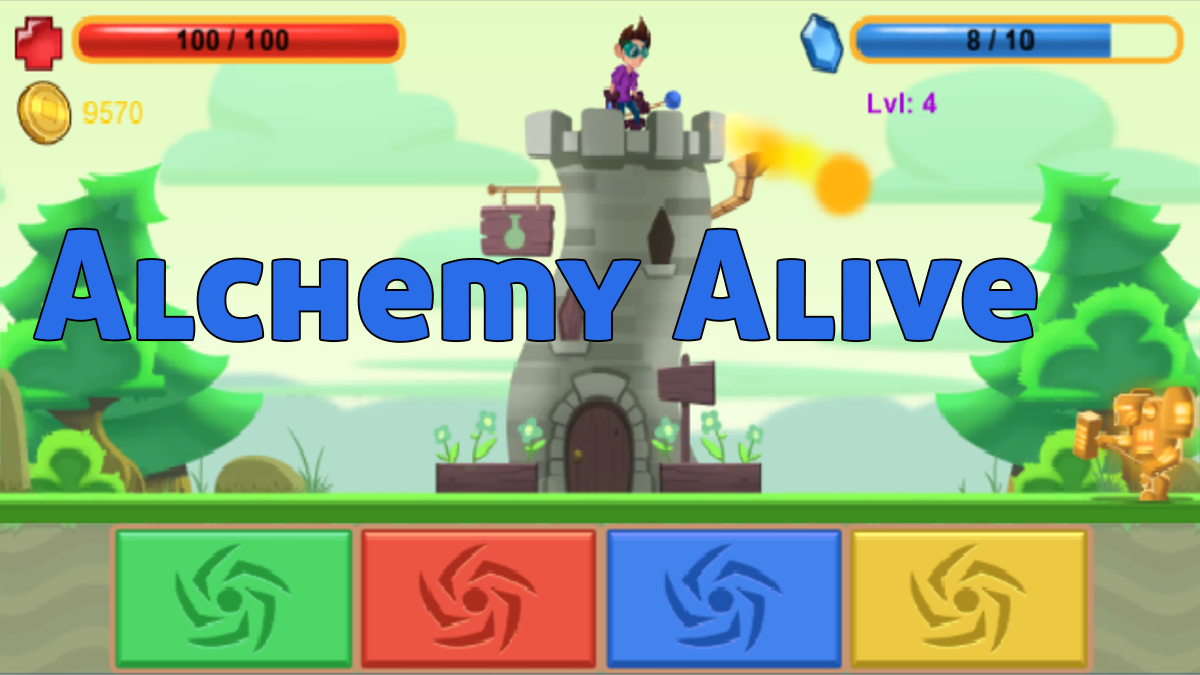
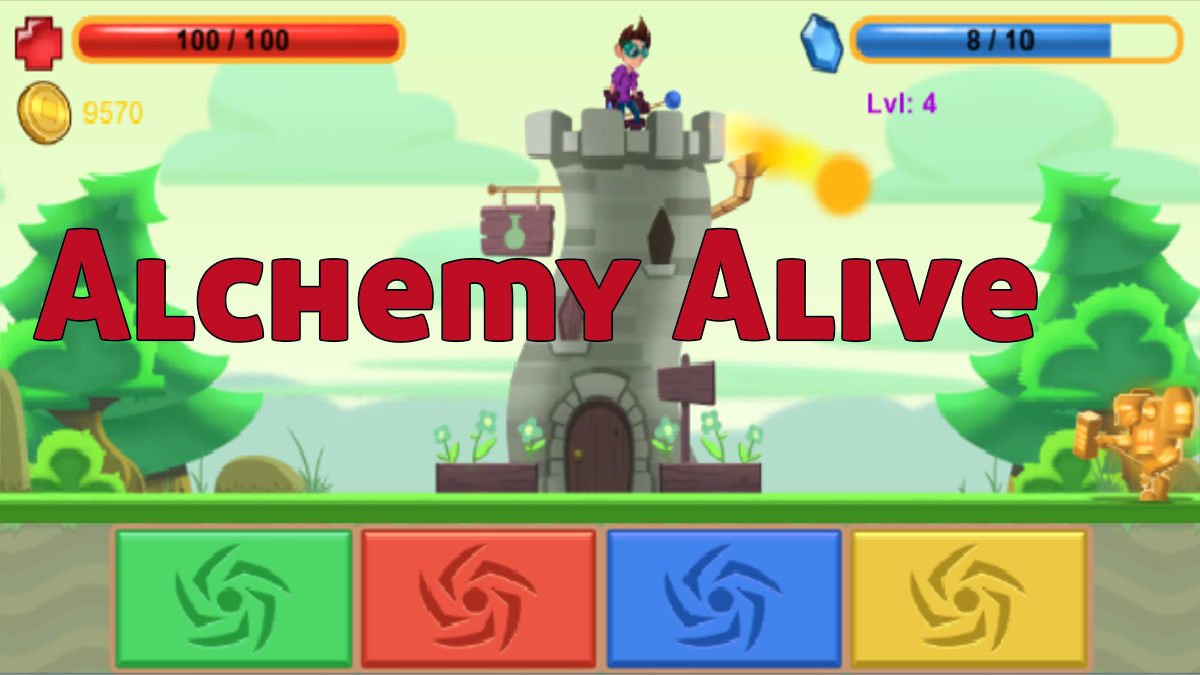
changes

Changed region(s): [[0.0308, 0.3422, 0.8633, 0.5289]]

diff --git a/index.html b/index.html
@@ -25,6 +25,20 @@
         <script src="https://oss.maxcdn.com/libs/respond.js/1.4.2/respond.min.js"></script>
     <![endif]-->
 
+    <style>
+        #maindisplayTitle {
+            text-shadow: 2px 2px 4px #2F2F2F;
+        }
+        ul#clickableimages {
+            list-style-type: none !important;
+            padding: 0 !important;
+            margin: 0 !important;
+        }
+        
+</style>
+
+
+
 </head>
 
 <body>
@@ -34,12 +48,6 @@
         <div class="container">
             <!-- Brand and toggle get grouped for better mobile display -->
             <div class="navbar-header">
-                <button type="button" class="navbar-toggle" data-toggle="collapse" data-target="#bs-example-navbar-collapse-1">
-                    <span class="sr-only">Toggle navigation</span>
-                    <span class="icon-bar"></span>
-                    <span class="icon-bar"></span>
-                    <span class="icon-bar"></span>
-                </button>
                 <a class="navbar-brand" href="http://www.errorpath.com/">Er Path Games -- Portfolio</a>
             </div>
             <!-- Collect the nav links, forms, and other content for toggling -->
@@ -77,56 +85,131 @@
         <!-- Portfolio Item Row -->
         <div class="row">
 
-            <div class="col-md-8">
-                <img class="img-responsive" src="images/LogoDesign.png" alt="">
+            <div class="maindisplay"> <!-- Main Logo DIV -->
+                <div class="col-md-8 ">
+                    <img class="img-responsive" src="images/LogoDesign.png" alt="">
+                </div>
+
+                <div class="col-md-4"  >
+                    <h3 id = "maindisplayTitle" style="font-size: 40px !important;color:#68357C;"><b>ER PATH GAMES</b></h3>
+                    <p>Hi, I have been freelancing Unity3D games and apps for various clients for the past 3 years.  I have made both 3D and 2D complete games during this time.  No matter your game apps needs' I am more than confident I will surpass your expectations.</p>
+                    <h3>Skills:</h3>
+                    <ul>
+                        <li>Unity3D</li>
+                        <li>Autodesk Maya</li>
+                        <li>Photoshop CS6</li>
+                        <li>Adobe After Effects</li>
+                        <li>C#-Javascript</li>
+                    </ul>
+                </div>
             </div>
 
-            <div class="col-md-4">
-                <h3>Er Path Games</h3>
-                <p>Hi, I have been freelancing Unity3D games and apps for various clients for the past 3 years.  I have made both 3D and 2D complete games during this time.  No matter your game apps needs' I am more than confident I will surpass your expectations.</p>
-                <h3>Skills:</h3>
-                <ul>
-                    <li>Unity3D</li>
-                    <li>Autodesk Maya</li>
-                    <li>Photoshop CS6</li>
-                    <li>Adobe After Effects</li>
-                    <li>C#-Javascript</li>
-                </ul>
+            <div class="maindisplay"> <!-- Golf Cart Adventure DIV -->
+                <div class="col-md-8">
+                    <img class="img-responsive" src="images/SunnyRoof.png" alt="">
+                </div>
+
+                <div class="col-md-4" >
+                    <h3 id = "maindisplayTitle" style="font-size: 35px !important;color:#2936B4;"><b>GOLF CART ADVENTURE</b></h3>
+                    <p>With only a golf cart to navigate around a small mid-west neighborhood, 
+                        deliver packages and investigate the many weird quirks and mysteries surrounding the small housing development of "Fair Springs".
+                    </p>
+                    <h3>Tools Used:</h3>
+                    <ul>
+                        <li>Unity3D</li>
+                        <li>Autodesk Maya</li>
+                        <li>Substance Designer/Painter</li>
+                        <li>Headus UV Layout</li>
+                        <li>Photoshop CS6</li>
+                    </ul>
+                </div>
             </div>
+
+            <div class="maindisplay"> <!--Alchemy Alive DIV -->
+                <div class="col-md-8">
+                    <img class="img-responsive" src="images/Alchemist.png" alt="">
+                </div>
+
+                <div class="col-md-4" >
+                    <h3 id = "maindisplayTitle" style="font-size: 50px !important;color:#BF0E23;"><b>ALCHEMY ALIVE</b></h3>
+                    <p>Alchemy Alive is a slide and shoot 2D tower defense game. You play as Maxmus, an Alchemist's apprentice who is left to defend his master's tower from an endless hoard of Elementals. 
+                        It is still currently under development.
+                    </p>
+                    <h3>Tools Used:</h3>
+                    <ul>
+                        <li>Unity3D</li>
+                        <li>Spine 2D</li>
+                        <li>Photoshop CS6</li>
+                        <li>Illustrator CS6</li>
+                    </ul>
+                </div>
+            </div>
+
+             <div class="maindisplay">  <!-- ROBO RUN DIV -->
+                <div class="col-md-8">
+                    <img class="img-responsive" src="images/RoboRun.png" alt="">
+                </div>
+
+                <div class="col-md-4" >
+                    <h3 id = "maindisplayTitle" style="font-size: 50px !important;color:#2936B4;"><b>RUN GO RUN</b></h3>
+                    <p>Welcome to Robo City. Where the notorious Dr. Circuitz has created you and instructed you to run through his platforms in the sky to show off his greatness. 
+                        Jump over and dash through obstacles in this infinite runner game. Collect power ups and avoid traps as the you pick up the speed on your way to greatness. 
+                    </p>
+                    <h3>Tools Used:</h3>
+                    <ul>
+                        <li>Unity3D</li>
+                        <li>Autodesk Maya</li>
+                        <li>Photoshop CS6</li>
+                    </ul>
+                </div>
+
+            </div>
+
 
         </div>
+
+
         <!-- /.row -->
 
         <!-- Related Projects Row -->
-        <div class="row">
+        <div class="row" >
 
-            <div class="col-lg-12">
-                <h3 class="page-header" style="text-align:center;">Past Projects</h3>
-            </div>
-
-            <div class="col-sm-3 col-xs-6">
             
-                    <img class="img-responsive portfolio-item" src="images/SunnyRoof.png" alt="">
-                
-            </div>
 
-            <div class="col-sm-3 col-xs-6">
-                
-                    <img class="img-responsive portfolio-item" src="images/RoboRun.png" alt="">
-                
-            </div>
+                <div class="col-lg-12">
+                    <h3 class="page-header" style="text-align:center;">Past Projects</h3>
+                </div>
 
-            <div class="col-sm-3 col-xs-6">
-                
-                    <img class="img-responsive portfolio-item" src="images/BehindGolfCart.png" alt="">
-                
-            </div>
+                <ul id="clickableimages" >
 
-            <div class="col-sm-3 col-xs-6">
+                        <li class="col-sm-3 col-xs-6 active">
+                                <a href="#">
+                                <img class="img-responsive portfolio-item" src="images/LogoDesign.png">
+                                </a>
+                        </li>
+                        
+                        <li class="col-sm-3 col-xs-6 inactive" >
+                                <a href="#">
+                                <img class="img-responsive portfolio-item" src="images/BehindGolfCart.png">
+                                </a>
+                        </li>
+
+                        <li class="col-sm-3 col-xs-6 inactive">
+                                <a href="#">
+                                <img class="img-responsive portfolio-item" src="images/AlchemistLogo.png">
+                                </a>
+                        </li>
+
+                        <li class="col-sm-3 col-xs-6 inactive">
+                                <a href="#">
+                                <img class="img-responsive portfolio-item" src="images/RoboRun.png">
+                                </a>
+                        </li>
+
+                </ul>
                 
-                    <img class="img-responsive portfolio-item" src="images/Alchemist.png" alt="">
                 
-            </div>
+
 
         </div>
         <!-- /.row -->
@@ -148,6 +231,28 @@
 
     <!-- jQuery -->
     <script src="js/jquery.js"></script>
+
+    <script type ='text/javascript'>
+
+        $(document).ready(function() {
+
+            $('ul#clickableimages li').click(function() {
+            var number = $(this).index();
+            $('.maindisplay').hide().eq(number).show();
+            $(this).toggleClass('active inactive');
+            $('ul#clickableimages li').not(this).removeClass('active').addClass('inactive');
+            });
+
+            $('.maindisplay').not(':first').hide();
+
+        });
+
+    </script>
+
+
+
+
+
 
     <!-- Bootstrap Core JavaScript -->
     <script src="js/bootstrap.min.js"></script>

diff --git a/Alchemist.html b/Alchemist.html
@@ -1,0 +1,34 @@
+<!DOCTYPE html>
+<html>
+  <head>
+    <meta charset="UTF-8">
+    <title>title</title>
+  </head>
+  <body>
+  
+
+      
+
+
+
+
+
+
+
+
+
+
+
+
+
+
+
+
+
+
+
+
+
+
+  </body>
+</html>
